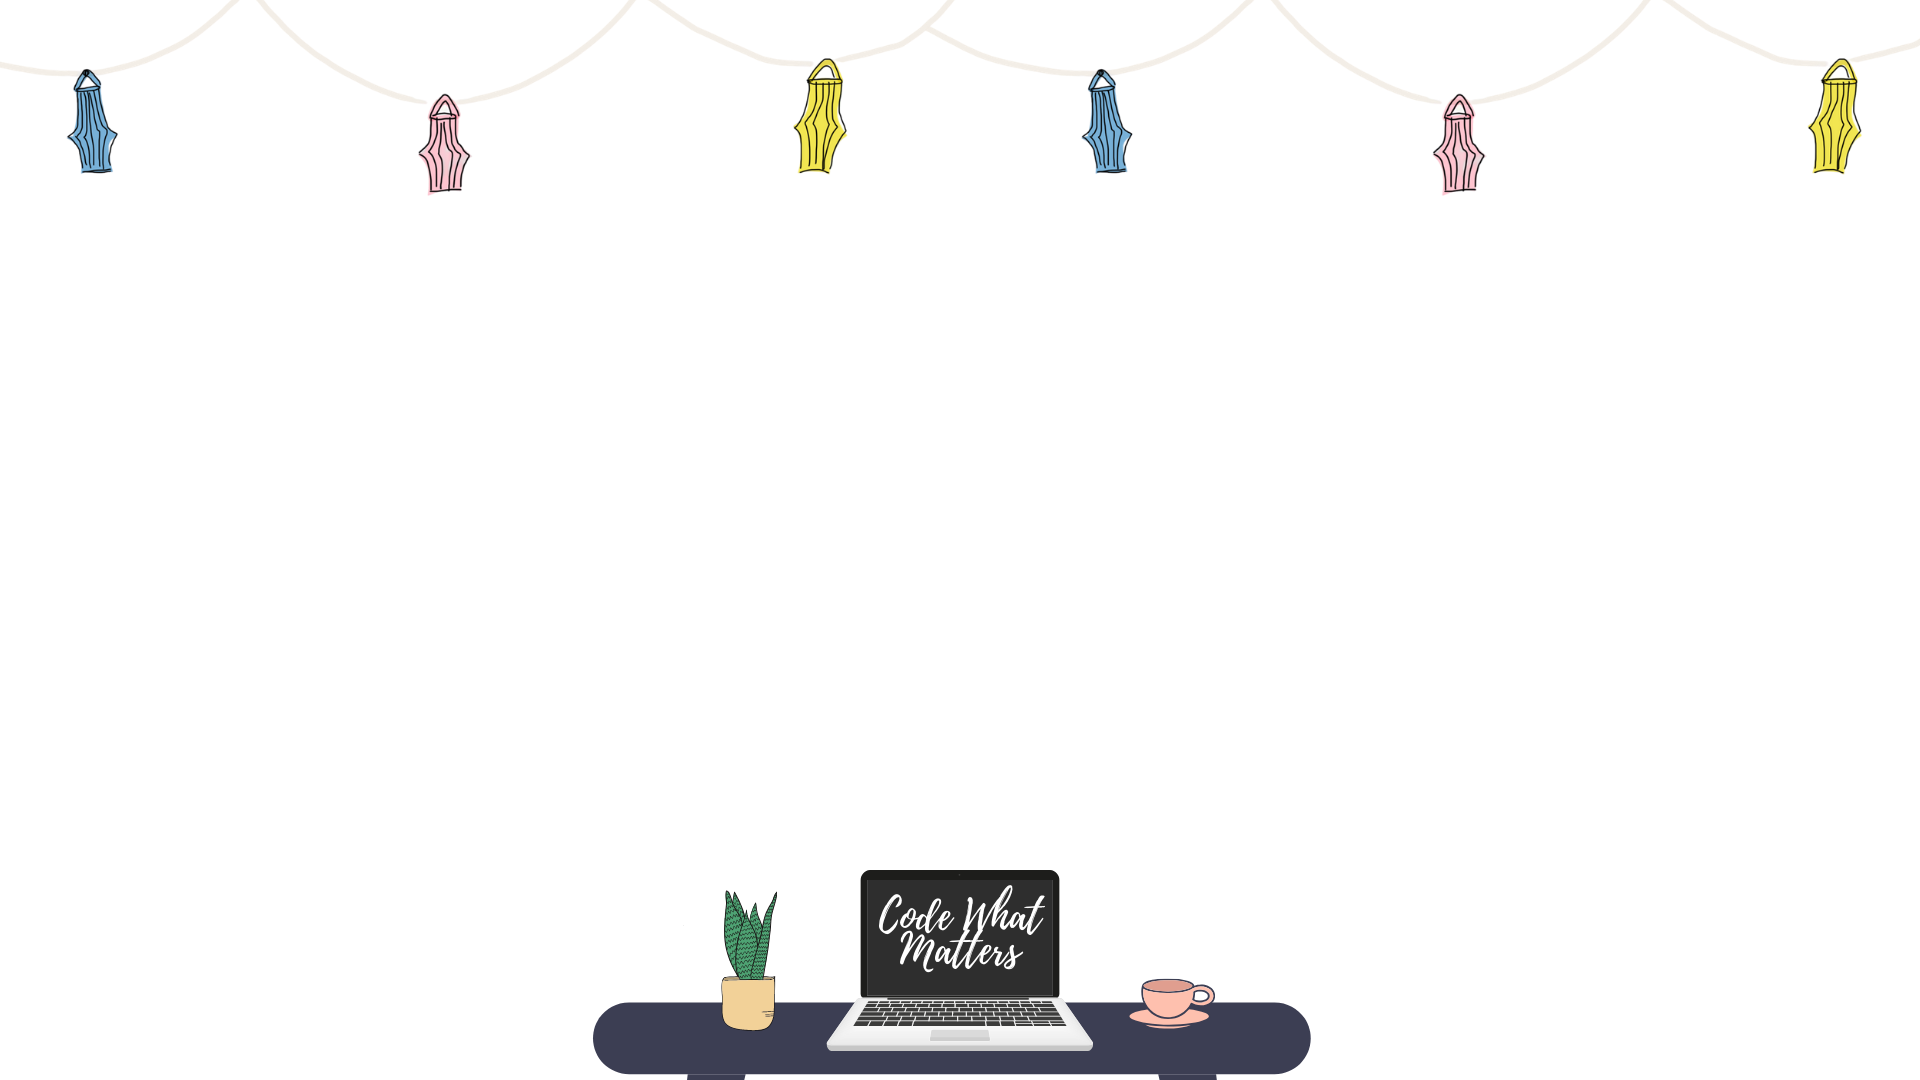
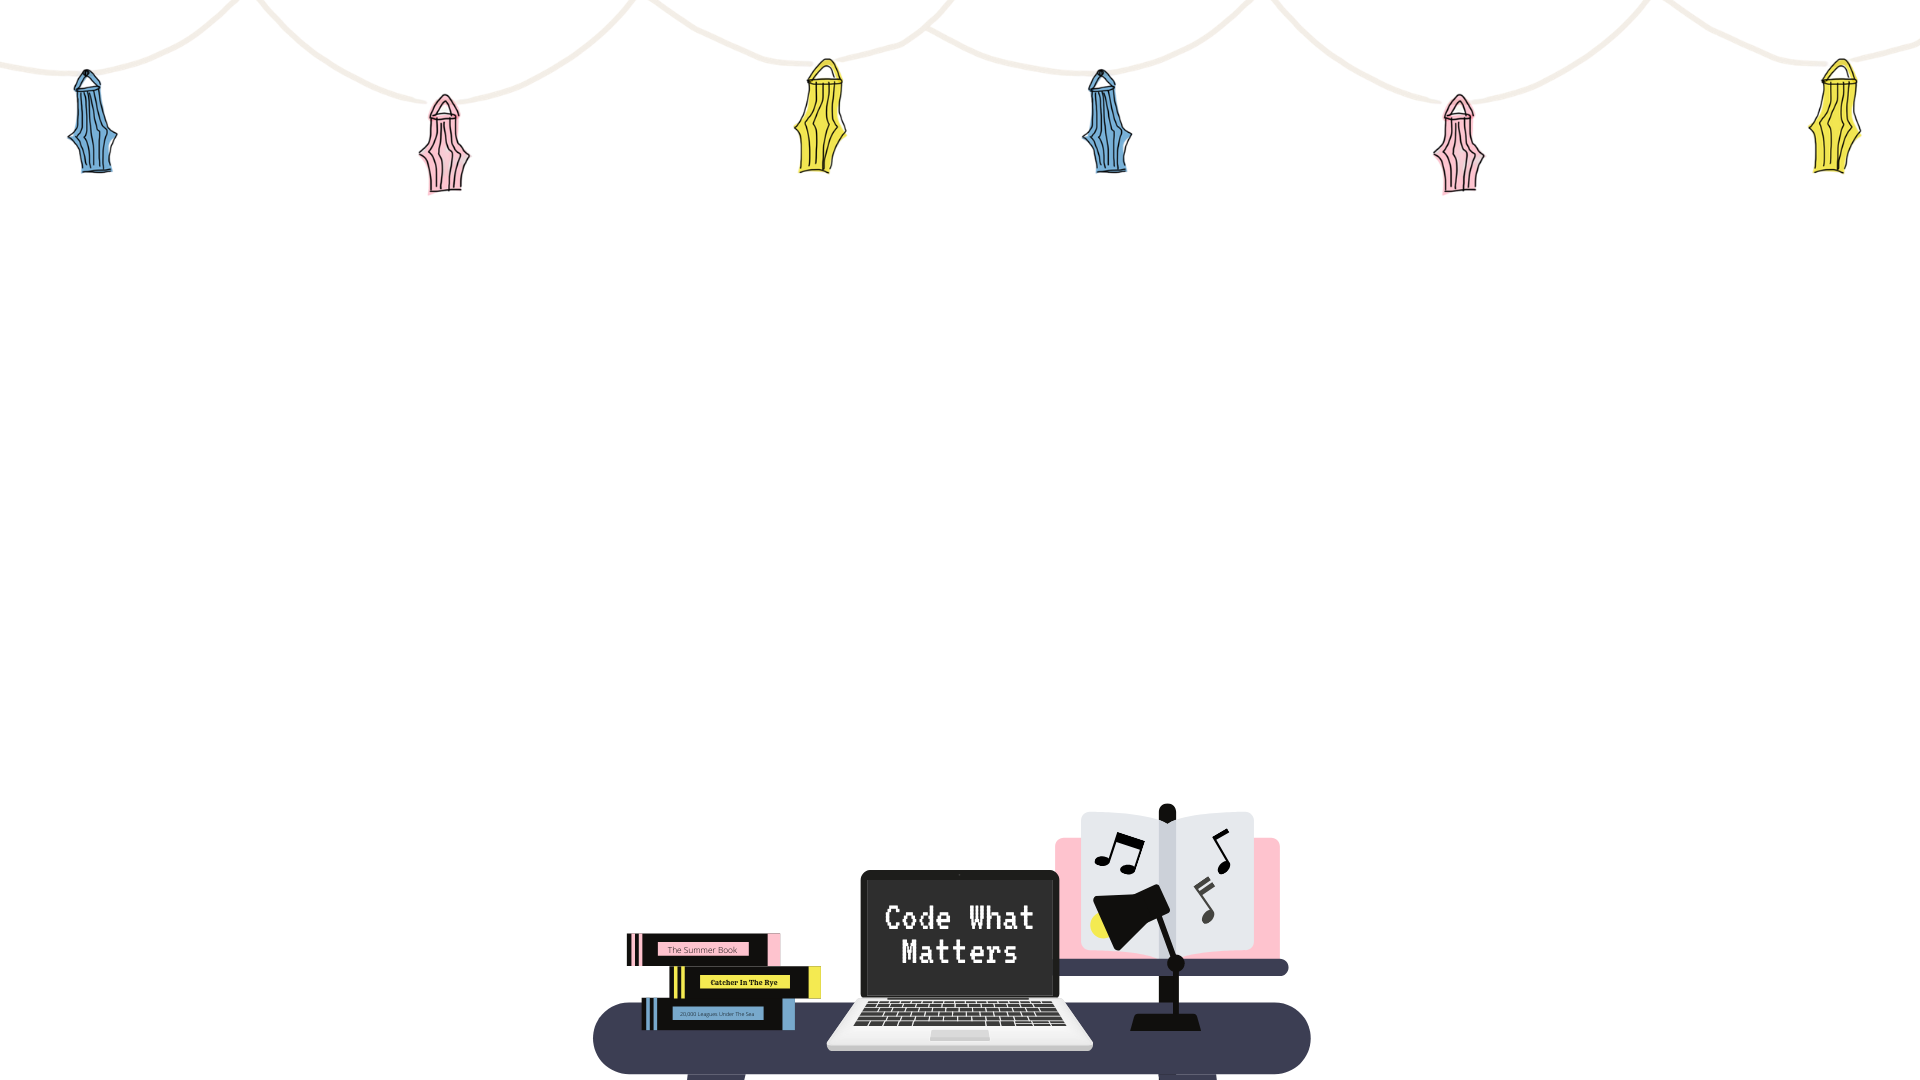
changes with background + title + resume

Changed region(s): [[0.4375, 0.7333, 0.6875, 0.9778], [0.3125, 0.825, 0.4375, 0.9778]]

diff --git a/index.html b/index.html
@@ -16,11 +16,14 @@
     <!--Favicon-->
     <link rel="icon" href="assets/Code.ico">
 
+    <!-- Google Font -->
+    <link href="https://fonts.googleapis.com/css2?family=VT323&display=swap" rel="stylesheet">
+
     <!--CSS-->
     <link rel="stylesheet" type="text/css" href="main.css">
   </head>
 <body> 
-    <div class="home">
+    <div id="home" class="home">
         <p>Full-Stack Software Engineer</p>
         <h1>Neamat Sabry</h1>
 
@@ -33,29 +36,33 @@
         </div>
 
         <div id="sections">
-            <a href="#about">About</a>
+            <a id="aboutBtn">About</a>
             <p>/</p>
-            <a href="#work"> Projects</a>
+            <a> Projects</a>
         </div>
     </div>
 
-    <!-- <div class="about">
+    <div id="about" class="about">
+        <!-- <img src="assets/me.png"> -->
         <h2 id="about_text">
             Salaam! I'm a <strong>senior CompSci undergrad</strong> at Smith College / somewhat intermidate pianist / cat enthusiast.
-            If you want to talk about software engineering or even just art and classical music, email or Linkedin is the best way to reach me. 
-            Thakn you for coming here!
+            On my free time, I like playing the piaon, drawing, and reading a multitude of books.
+            If you want to talk about tech, art or classical music, email or Linkedin is the best way to reach me. 
+            Thakn you!
         </h2>
         <h2>\(^-^ )/</h2>
         <div id="sections">
-            <a href="#about">Home</a>
+            <a id="homeBtn">Home</a>
             <p>/</p>
-            <a href="#work"> Projects</a>
+            <a id="workBtn"> Projects</a>
         </div>
-    </div> -->
+    </div>
+
+    
         
     <!-- FUTURE ABOUT SECTION -->
 
     
     <script src="script.js"></script>
-</body>
+   </body>
 </html>

diff --git a/main.css b/main.css
@@ -4,6 +4,7 @@ html {
     -moz-background-size: cover;
     -o-background-size: cover;
     background-size: cover;
+    scroll-behavior: smooth;
 }
 
 :root {
@@ -26,7 +27,8 @@ html{
 }
 
 h1 {
-    color: var(--header-color);
+    font-family: 'VT323', monospace;
+    color: var(--hover-color);
     font-size: 70px;
     margin: 5px;
 }
@@ -74,10 +76,6 @@ a {
     color: var(--hover-color);
 }
 
-/* #sections{
-    padding: 100px;
-} */
-
 #sections > a , p{
     display: inline-block;
 }
@@ -89,18 +87,27 @@ a {
 
 #sections a:hover{
     border-bottom: solid 3px var(--hover-color);
-    padding-bottom: 3px;
+    /* padding-bottom: 3px; */
     color: var(--hover-color);
 }
 
 /* ABOUT SECTION */
 .about {
+    /* margin: 40% 0 12% 0; */
     text-align: center;
     position: absolute;
     top: 50%;
     left: 50%;
     transform: translate(-50%, -50%);
-    font-size: 20px;
+    /* font-size: 15px; */
+    display: none;
+}
+
+@media only screen and (max-width: 768px) {
+    .about {width: 75%;}
+    /* html{
+        background-size: 300%;
+    } */
 }
 
 #about_text{

diff --git a/script.js b/script.js
@@ -10,7 +10,6 @@ const darkClassName = "far fa-moon fa-2x";
 const lightClassName = "fas fa-sun fa-2x";
 
 if (currentTheme) {
-    console.log(currentTheme)
     document.documentElement.setAttribute('data-theme', currentTheme);
     // lightSwitch.className = lightClassName;
 
@@ -33,3 +32,17 @@ function switchTheme(e) {
 }
 
 lightSwitch.addEventListener("click", switchTheme);
+
+/*
+ * to be finalized
+ */
+
+// const aboutBtn = document.getElementById('aboutBtn');
+// const aboutSection = document.getElementById('about')
+
+// function viewAbout(){
+//     aboutSection.style.display = "block";
+//     $('body').css('background-image', "url('assets/justLights.png') no-repeat center center fixed");
+// }
+
+// aboutBtn.addEventListener('click', viewAbout)
